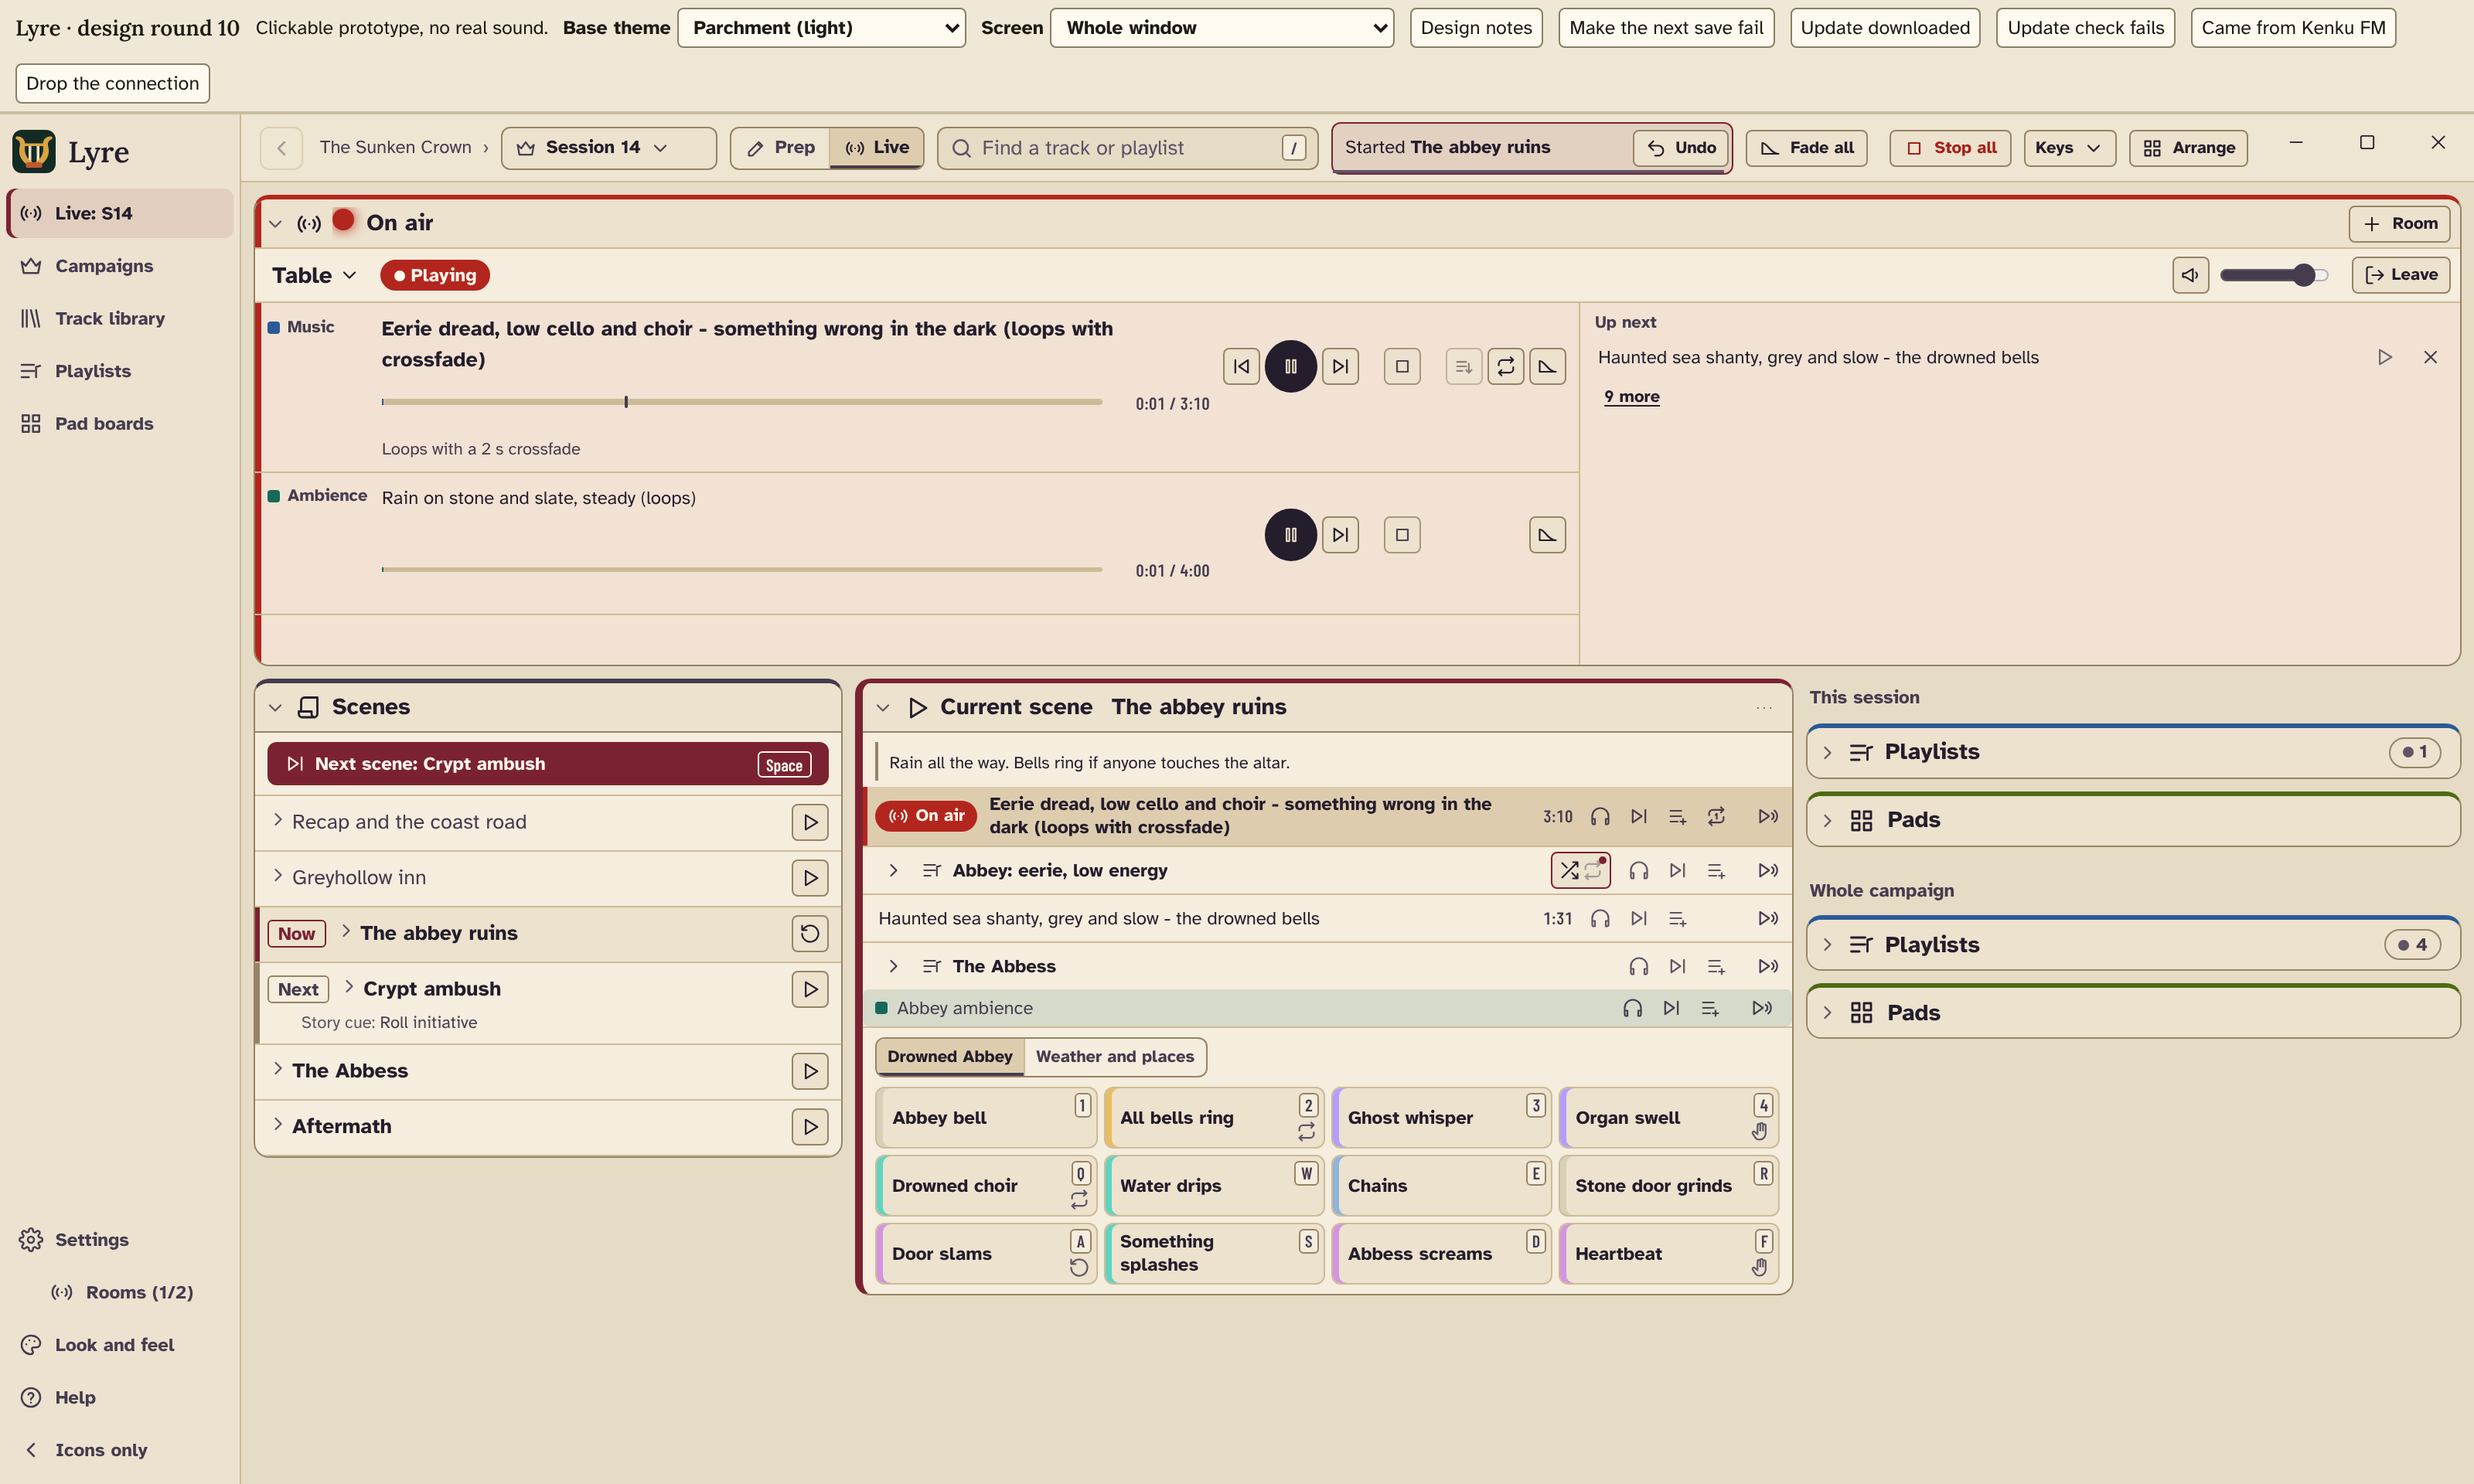
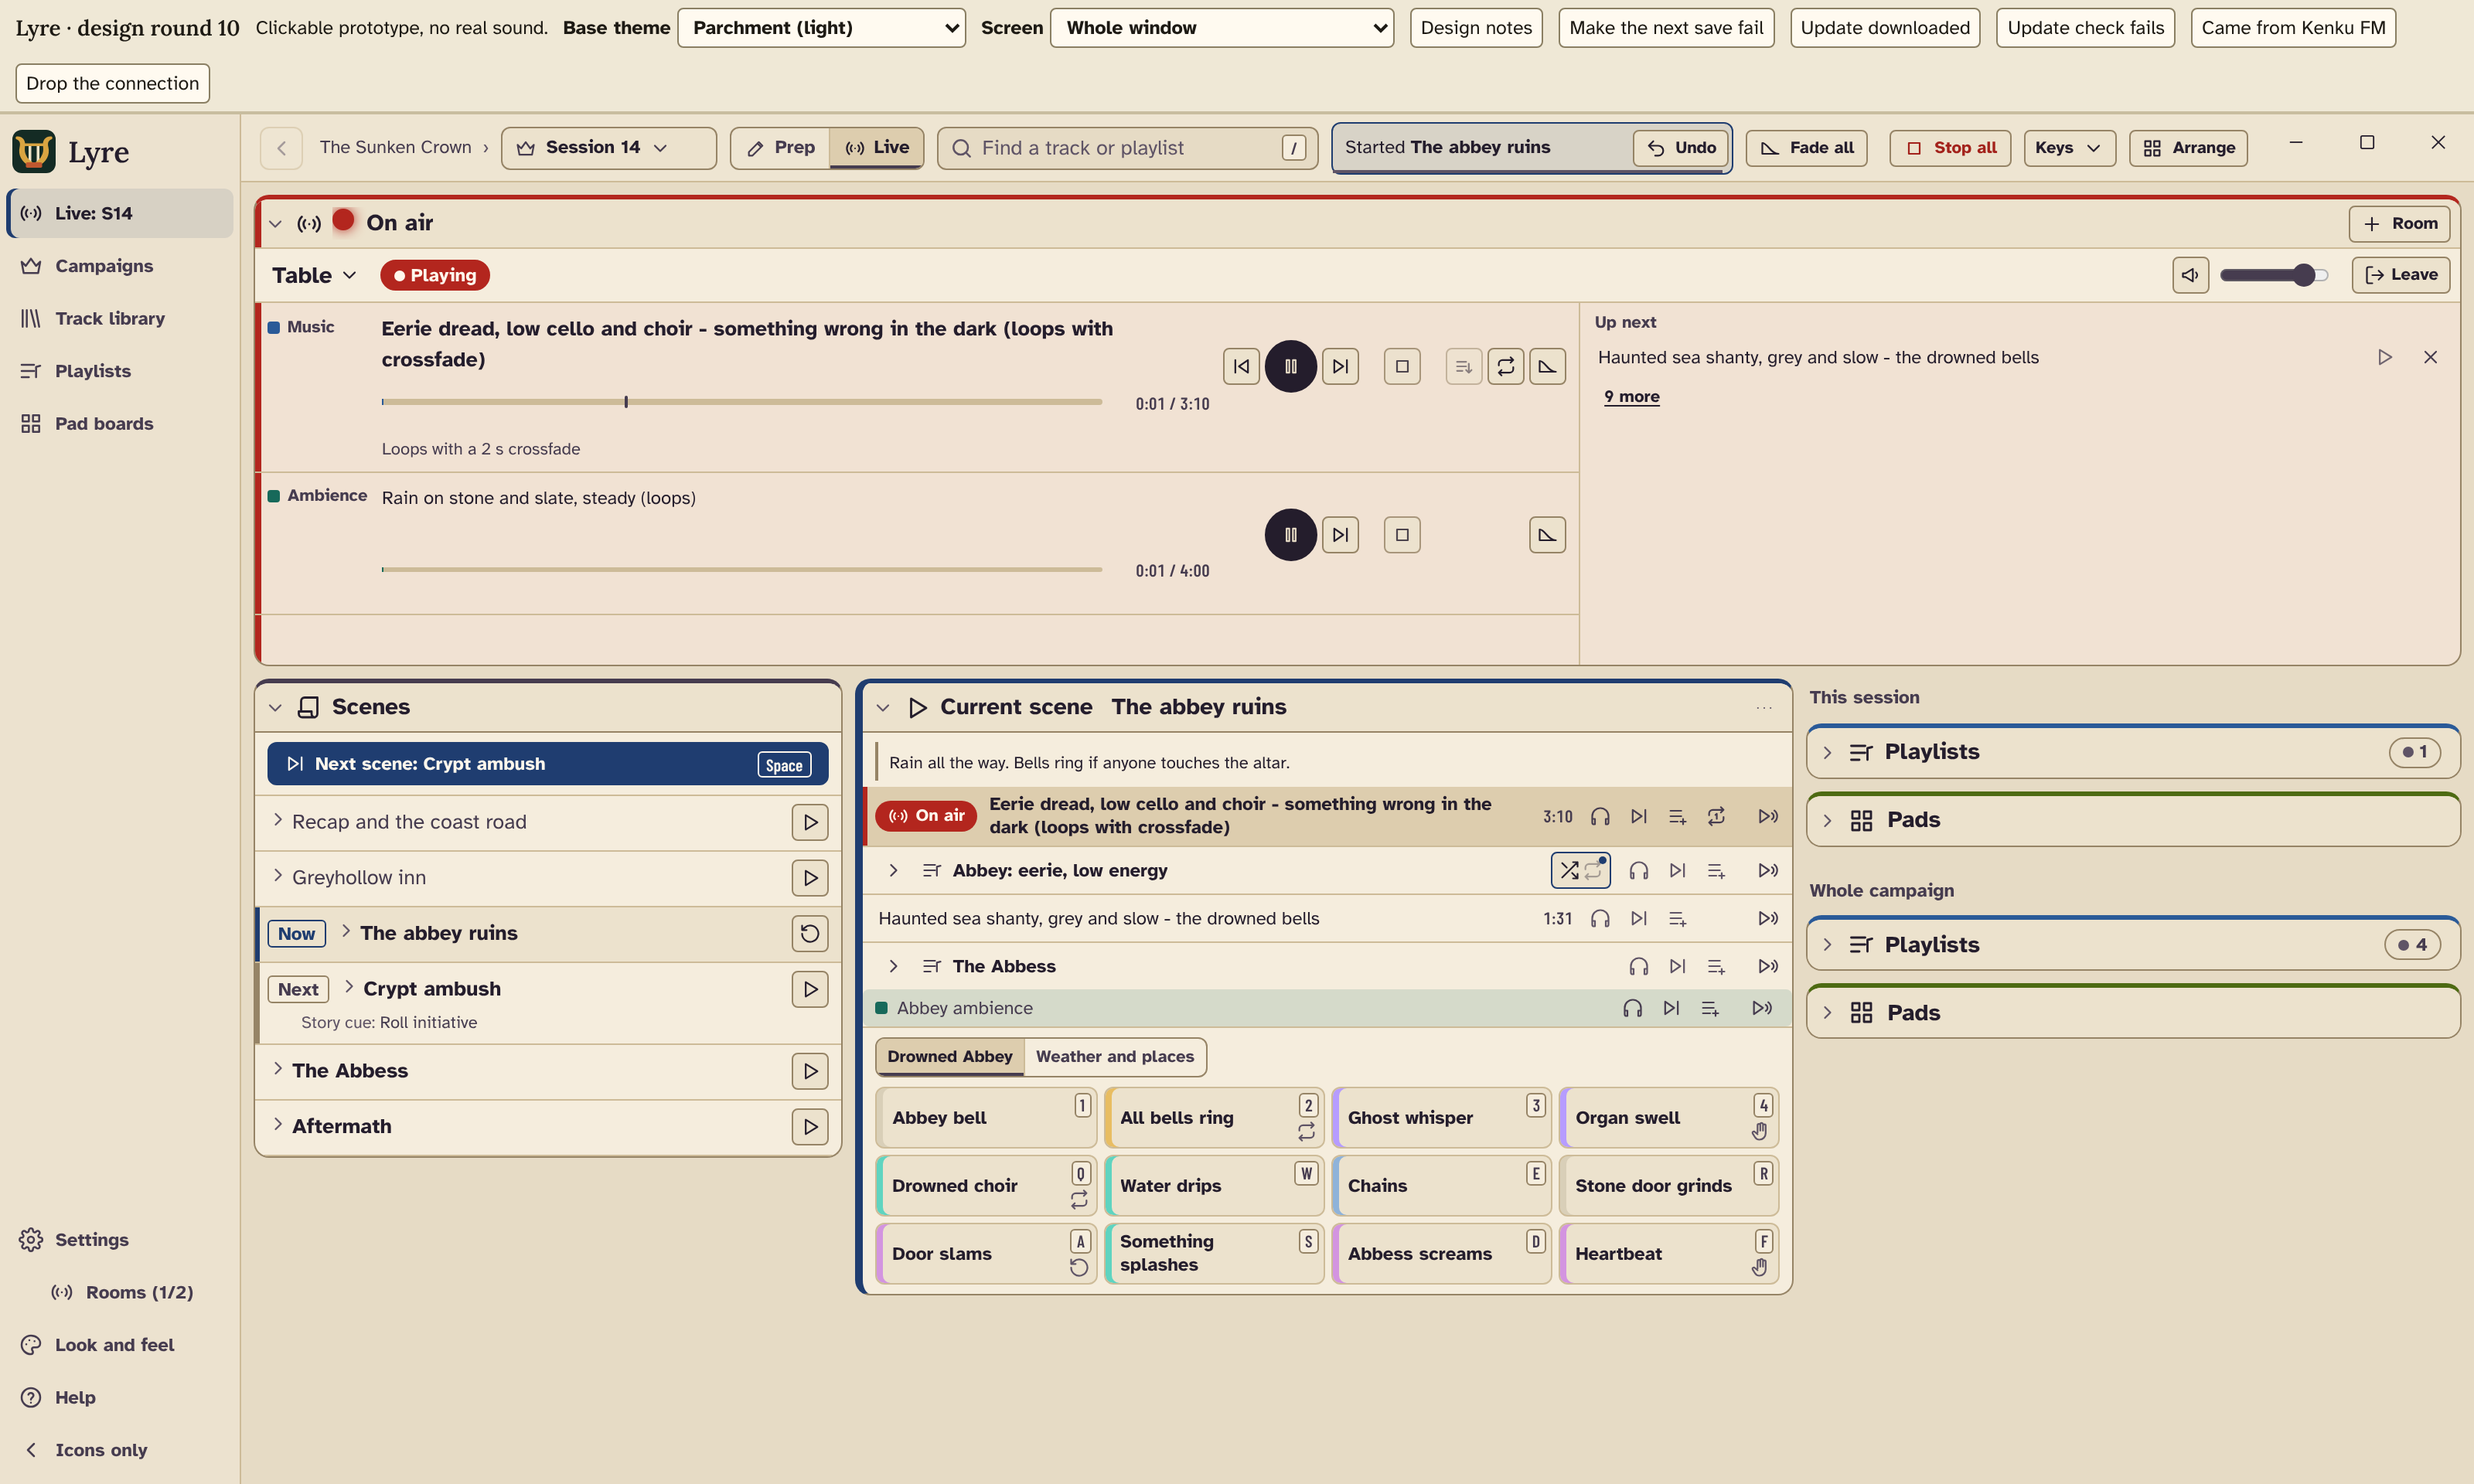
ROUND10.md: Nik's four answers recorded and the questions closed; What to try rows 26 to 29; shots 11 and 12 retaken, 13 and 14 added
Claude-Session: https://claude.ai/code/session_01UHqfDonG5GV2atUjrDtHdX

Changed region(s): [[0.0938, 0.5, 0.3438, 0.5312], [0.3438, 0.4375, 0.375, 0.4688], [0.0938, 0.625, 0.125, 0.6562]]

diff --git a/design/prototype/ROUND10.md b/design/prototype/ROUND10.md
@@ -29,7 +29,7 @@ Built = drawn in the prototype this round. Later = kept for a later round, not d
 | # | Proposal | Verdict | Why |
 |---|---|---|---|
 | P1 | Back returns to the same scene, open playlist, scroll and control | Keep (built in round 9) | The prototype already does it; the app must match (acceptance check stays). |
-| P2 | Make a playlist from the Add music panel | Keep, built | Nik 18 Nov, 1a. **New board…** in the pad board picker: Drop for now: Nik's answer is about playlists, and a board needs its own grid editor. |
+| P2 | Make a playlist from the Add music panel | Keep, built | Nik 18 Nov, 1a. **New board…** in the pad board picker: built after Nik's answer 4 to this round's questions (below). |
 | P3 | "No ambience" chip on a folded scene | Drop | Nik 6 Nov: no Ready-type marks; 18 Nov: left out. |
 | P4 | "Starts when" becomes **Story cue**; a "When it starts" line in the open scene with Change… | Keep, built | The start steps decide what the table hears and were hidden in ⋯. |
 | P5 | The Library's tag chips in the pickers | Later | 0.5.2 put the Shape filter in the scene pickers; the full chip row shares the Library's filter code in the app, so it is built there. |
@@ -77,7 +77,7 @@ Built = drawn in the prototype this round. Later = kept for a later round, not d
 
 | # | Proposal | Verdict | Why |
 |---|---|---|---|
-| K1 | One signal: On air is a red lamp in every theme; no accent in the red-orange band | Keep, built | Nik 18 Nov, 4a: Hearth's orange becomes iron teal. Parchment's oxblood is in the same band: **question 1 for Nik**. |
+| K1 | One signal: On air is a red lamp in every theme; no accent in the red-orange band | Keep, built | Nik 18 Nov, 4a: Hearth's orange becomes iron teal; answer 1 below: Parchment's oxblood becomes ink blue. |
 | K1 | Elysium becomes bone | Drop | Nik 18 Nov, 5b: Elysium keeps gold. |
 | K2 | Status colours for status, the accent for one primary | Keep, built | Connected and Nobody there were both gold. |
 | K3 | One header grammar; sentence case; the trays as plain headings | Keep, built | ALL CAPS labels and dashed/solid trays meant nothing. |
@@ -125,7 +125,8 @@ the Track panel's left; the queue opens at the right.
 
 **Live.**
 - Top strip: Back, trail, session, Prep | Live, Find (shrinks first), **Undo place**, Fade all, Stop all (words from
-  1000 px of app), Keys, Arrange.
+  1000 px of app; below that, at half a 1920 screen, icons with their names read out and on hover, Fade all's key
+  Shift+Esc in its hover text), Keys, Arrange.
 - On air: a red lamp in its head, lit while any room plays; no tinted band. Each room: name ▾ (move, copy, Leave), status, mute,
   volume, Leave. Then Music and Ambience, each with a title of up to
   two lines, its bar and time, and one quiet line (where it comes from · how it loops); then the Effects line, always
@@ -149,7 +150,9 @@ the Track panel's left; the queue opens at the right.
 cue**. Every track title, nested in a playlist or not, opens the Track panel. Track rows: Preview · Play on air · Audio
 profile · Repeat · ⋯. No "Note link · Coming later" in scenes or the session. Add music: **Make a playlist of these…**
 in its foot (asks a name; the scene gets the new playlist in place of the ticked tracks; Cancel and Done stay); a
-**Dock** menu (Left, Right, Float) with words.
+**Dock** menu (Left, Right, Float) with words. Add pad boards: **New board…** in its foot asks a name, makes an empty
+4 × 3 board and puts it at the end of the scene's boards (Back keeps the ticks as they were); its pads are added on
+its own page.
 
 **Playlists.** A → Open button on every playlist row. Row buttons greyed at rest.
 
@@ -163,9 +166,11 @@ same picker).
 at the top right (UX-R16).
 
 **Rooms.** As 0.5.1 had it; its trail says Settings › Rooms; reached from the rail under Settings and from Settings.
+Live's room menus have no Rooms… line: rooms are joined and moved in Live itself.
 
-**Themes.** Hearth and Iron: iron teal accent. Fern and Brass: a green ground that reads. Candlelit, Elysium (gold) and
-Parchment as they were. On air is the same red family in all five.
+**Themes.** Hearth and Iron: iron teal accent. Parchment: ink blue accent (it was oxblood). Fern and Brass: a green
+ground that reads. Candlelit and Elysium (gold) as they were. On air is the same red family in all five, and no
+theme's buttons are in it.
 
 **Help.** First start: the short tour, then Set up Lyre. Set up Lyre folds to one line when all nine are done, and its
 badge, a quiet outline chip, never shows while Live has a scene running. New campaign: with something typed, the first
@@ -173,7 +178,9 @@ Esc says a second one throws it away.
 
 ## Specs and checks
 The prototype project (`npx playwright test -c playwright.spec.config.ts --project=prototype`, through `yarn heavy`):
-**813 passed, 0 failed, 13 skipped** (the skipped ones are `appOnly()` checks of 0.5.1). That includes the sweeps (no
+**813 passed, 0 failed, 13 skipped** (the skipped ones are `appOnly()` checks of 0.5.1). After Nik's four answers:
+818 passed, 0 failed, 13 skipped for the whole project; then, with the Undo icon, Live, the sweeps and Help again
+(477 passed, the one failure a fault in the new check itself, fixed and passing) and the new checks (39 passed). That includes the sweeps (no
 sideways scroll, no overlap or cut-off text, axe WCAG 2.2 A and AA, keyboard, the window's buttons, every screen from
 600 to 2560 px wide). Round 9 left 34 failing; they now pass.
 - **New checks, marked `expectFailureUntilBuilt("r10")`** (a new stream in `support/built.ts`, so the app project
@@ -193,12 +200,28 @@ sideways scroll, no overlap or cut-off text, axe WCAG 2.2 A and AA, keyboard, th
   real faults (Undo under Find lost its click, the strip shifted 3 px when Undo appeared, the Live tour skipped a step),
   which were then fixed.
 
-## Questions for Nik (recommended first)
-1. **Parchment's oxblood buttons** sit in the same red as On air, as Hearth's orange did: (a) ink blue, as you chose
-   iron teal for Hearth; (b) keep oxblood.
-2. **Fade all and Stop all at half a 1920 screen**: (a) icons there (names on hover and read out), words from 1000 px
-   up; (b) words always, and the campaign's name leaves Live's strip at that size.
-3. **Rooms from Live**: (a) only from the menu under Settings, so Live stays the place for joining and moving; (b) also
-   a "Rooms…" line at the foot of each room's menu.
-4. **A new pad board from the planner** (the prep reviewer's other half of your answer 1a): (a) New board… in the pad
-   board picker opens the board and comes back with it ticked; (b) build boards on the Pad boards page only.
+## Nik's answers to round 10's questions (18 Nov)
+Asked with the recommended option first; Nik chose it each time (verbatim in `/root/kenku-wt/R6-NIK-DECISIONS.md`,
+"answers to the round 10 merge agent's 4 questions"). All four are built; the questions are closed.
+
+1. **Parchment's buttons**: ink blue in place of oxblood, so On air's red stands out. Accent `#1f3d70` (hover
+   `#2b4f88`): its words 10.1:1 on the button, accent text 9.2:1 on the panels, the button 7.8:1 against the page.
+   `tools/check-contrast.js` now also fails a theme whose buttons are under 3:1 against the page (1.4.11) or within
+   30° of On air's hue; all five pass.
+2. **Fade all and Stop all at half a 1920 screen**: icons below 1000 px of window, words from 1000 px up. Their names
+   are read out, their hover text names them (Stop all's now starts "Stop all:"), and Fade all keeps Shift+Esc.
+   Found while retaking the half-screen shot: Undo's word was cut to "U" below 1100 px (the sweep measured the
+   button, not the word inside it). Undo is now an icon there in the same way, its name and Ctrl+Z kept.
+3. **Rooms from Live**: only from the menu under Settings (and Settings › Discord bots). Live's room menus and + Room
+   have no Rooms… line; a check makes sure of it.
+4. **A new pad board from the planner**: New board… in a scene's Add pad boards, as Make a playlist of these… in Add
+   music. It makes an empty 4 × 3 board and puts it in the scene; pads and size are changed on its page.
+
+New checks, test first (each failed before the change, marked `expectFailureUntilBuilt("r10")`): `look.spec.ts`
+"round 10: Parchment's buttons are ink blue"; `live.spec.ts` "round 10: Nik's answers on the strip at half a screen
+and on Rooms" (the Rooms check passed from the start, since no Rooms… line was there; it stays as a guard);
+`session-planner.spec.ts` New board… and its Back. The Undo icon check was written just after its fix, then seen
+to fail on the build without it.
+
+Shots (`shots/r10`): 11 (half a screen) and 12 (Parchment) retaken; 13 a room's menu in Live; 14 New board… in
+Add pad boards.

diff --git a/design/prototype/ROUND10-TRY.md b/design/prototype/ROUND10-TRY.md
@@ -5,7 +5,7 @@ window size, design notes, and **Drop the connection** to show a lost bot); it i
 **Screen: Whole window**, then try **Half of a 1920 screen** for Live.
 
 The number in brackets is the item on your list of 14 Nov, or your answer to the reviewers' questions of 18 Nov (Q1 to
-Q7).
+Q7). Rows 26 to 29 are your four answers to this round's questions (A1 to A4).
 
 ## Live
 
@@ -49,5 +49,14 @@ Q7).
 | 21 | Settings › Discord bots. | No "Joins when Lyre starts"; a **Starting volume** per bot; **Rooms** at the top of the box (56). |
 | 22 | The menu: **Rooms (1/2)** under Settings. | The Rooms screen as it was, its trail Settings › Rooms. |
 | 23 | Settings › Sound to Discord › **Dip the music under effects**; a pad board › a pad › **While it plays**. | How far (A little by default), Comes back, Ambience dips too; pads have no mark on their face, their hover says they dip (47). |
-| 24 | Strip › Base theme: **Hearth and Iron**; then the other four. | Iron teal buttons, so the red On air light stands out (Q4); Elysium keeps its gold (Q5); Fern and Brass now reads green. Box titles in the plain face, no capitals. |
+| 24 | Strip › Base theme: **Hearth and Iron**; then the other four. | Iron teal buttons, so the red On air light stands out (Q4); Parchment's buttons are ink blue for the same reason (row 26); Elysium keeps its gold (Q5); Fern and Brass now reads green. Box titles in the plain face, no capitals. |
 | 25 | First start: open the prototype in a private window. | The short tour, then Help opens at **Set up Lyre** (19). Once all nine are done it folds to one line. |
+
+## Your answers to this round's questions
+
+| # | Try this | You should see |
+|---|---|---|
+| 26 | Strip › Base theme: **Parchment**; open Pad boards, then Live with a scene playing. | Main buttons (New board, Next scene) are ink blue, not oxblood; the On air light is the only red (A1). |
+| 27 | Strip › **Half of a 1920 screen**; Live. Start a scene, then point at the icons at the right of the top strip. | Fade all and Stop all are icons; hover names them (Fade all with Shift+Esc). Undo is an icon there too, no longer cut to "U". At 1000 px or wider Fade all and Stop all have their words again; Undo from 1100 px (A2). |
+| 28 | Live › click a room's name (**Table ▾**), then **+ Room**. | Move, copy, Leave and the bots; no Rooms… line. Rooms opens from the menu, under Settings (A3). |
+| 29 | Session 14 › open The abbey ruins › **Add pad boards…** › **New board…** › name it › **Make it and add it**. | The panel closes and the new board is last in the scene's pad boards; it is on the Pad boards page, empty, ready for pads. **Back** instead leaves your ticks as they were (A4). |
